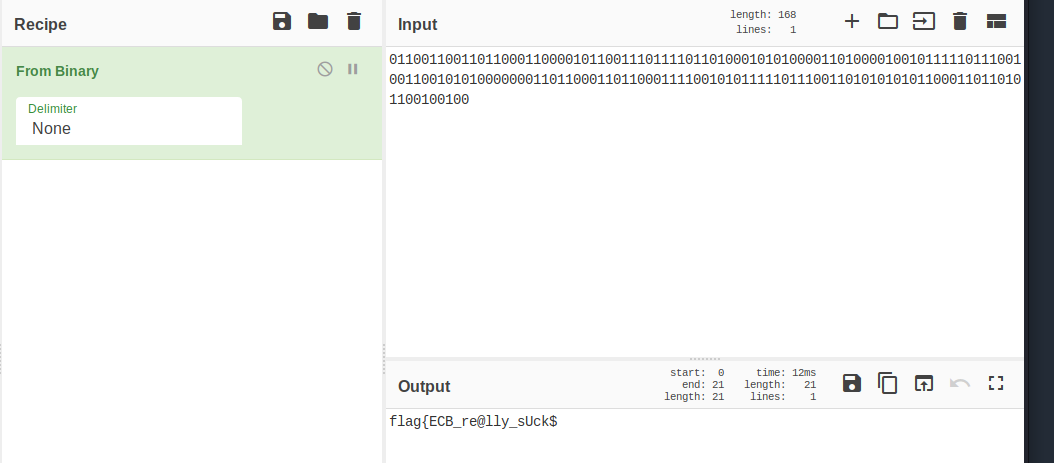
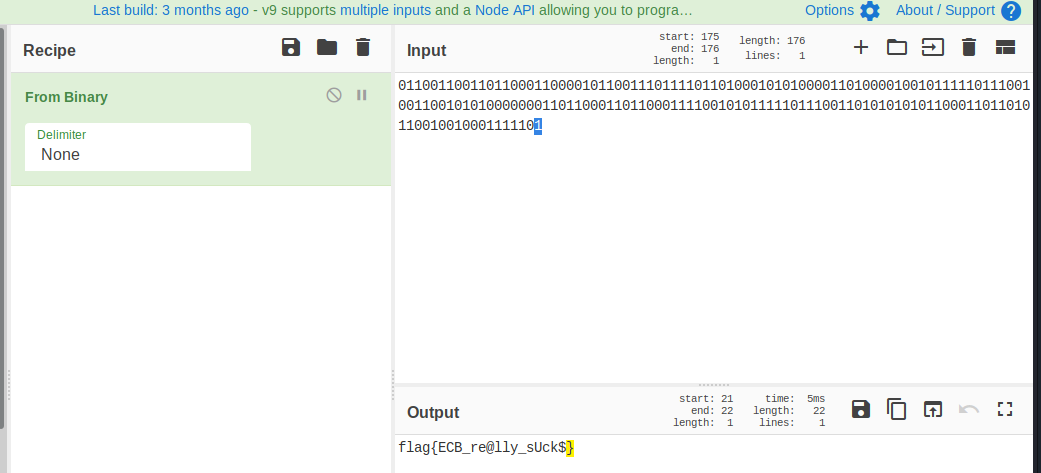
Updated modus_operandi

Changed region(s): [[0.0, 0.0, 1.0, 1.0], [0.3689, 0.8164, 0.5533, 0.9676]]

diff --git a/2020-CSAWCTF/README.md b/2020-CSAWCTF/README.md
@@ -36,8 +36,8 @@ It took around half an hour for my <a href=challs/modusv2.py>script</a> to find 
   <img src="imgs/modus_operandi4.PNG">
 </p>
 
-So I just need to decrypt that binary string with <a href="https://gchq.github.io/CyberChef/#recipe=From_Binary('None')&input=MDExMDAxMTAwMTEwMTEwMDAxMTAwMDAxMDExMDAxMTEwMTExMTAxMTAxMDAwMTAxMDEwMDAwMTEwMTAwMDAxMDAxMDExMTExMDExMTAwMTAwMTEwMDEwMTAxMDAwMDAwMDExMDExMDAwMTEwMTEwMDAxMTExMDAxMDEwMTExMTEwMTExMDAxMTAxMDEwMTAxMDExMDAwMTEwMTEwMTAxMTAwMTAwMTAw">Cyberchef</a> again and we can see the flag. It doesn't have the closing curly bracket, but we can assume it.
-
+So I just need to decrypt that binary string with <a href="https://gchq.github.io/CyberChef/#recipe=From_Binary('None')&input=MDExMDAxMTAwMTEwMTEwMDAxMTAwMDAxMDExMDAxMTEwMTExMTAxMTAxMDAwMTAxMDEwMDAwMTEwMTAwMDAxMDAxMDExMTExMDExMTAwMTAwMTEwMDEwMTAxMDAwMDAwMDExMDExMDAwMTEwMTEwMDAxMTExMDAxMDEwMTExMTEwMTExMDAxMTAxMDEwMTAxMDExMDAwMTEwMTEwMTAxMTAwMTAwMTAwMDExMTExMDE">Cyberchef</a> again and we can see the flag. Length is 175 so the last bit is missing (it should be multiple of 8) and it must be a 1 in order to get the closing curly bracket.
+ 
 <p align="center">
   <img src="imgs/solution.PNG">
 </p>
